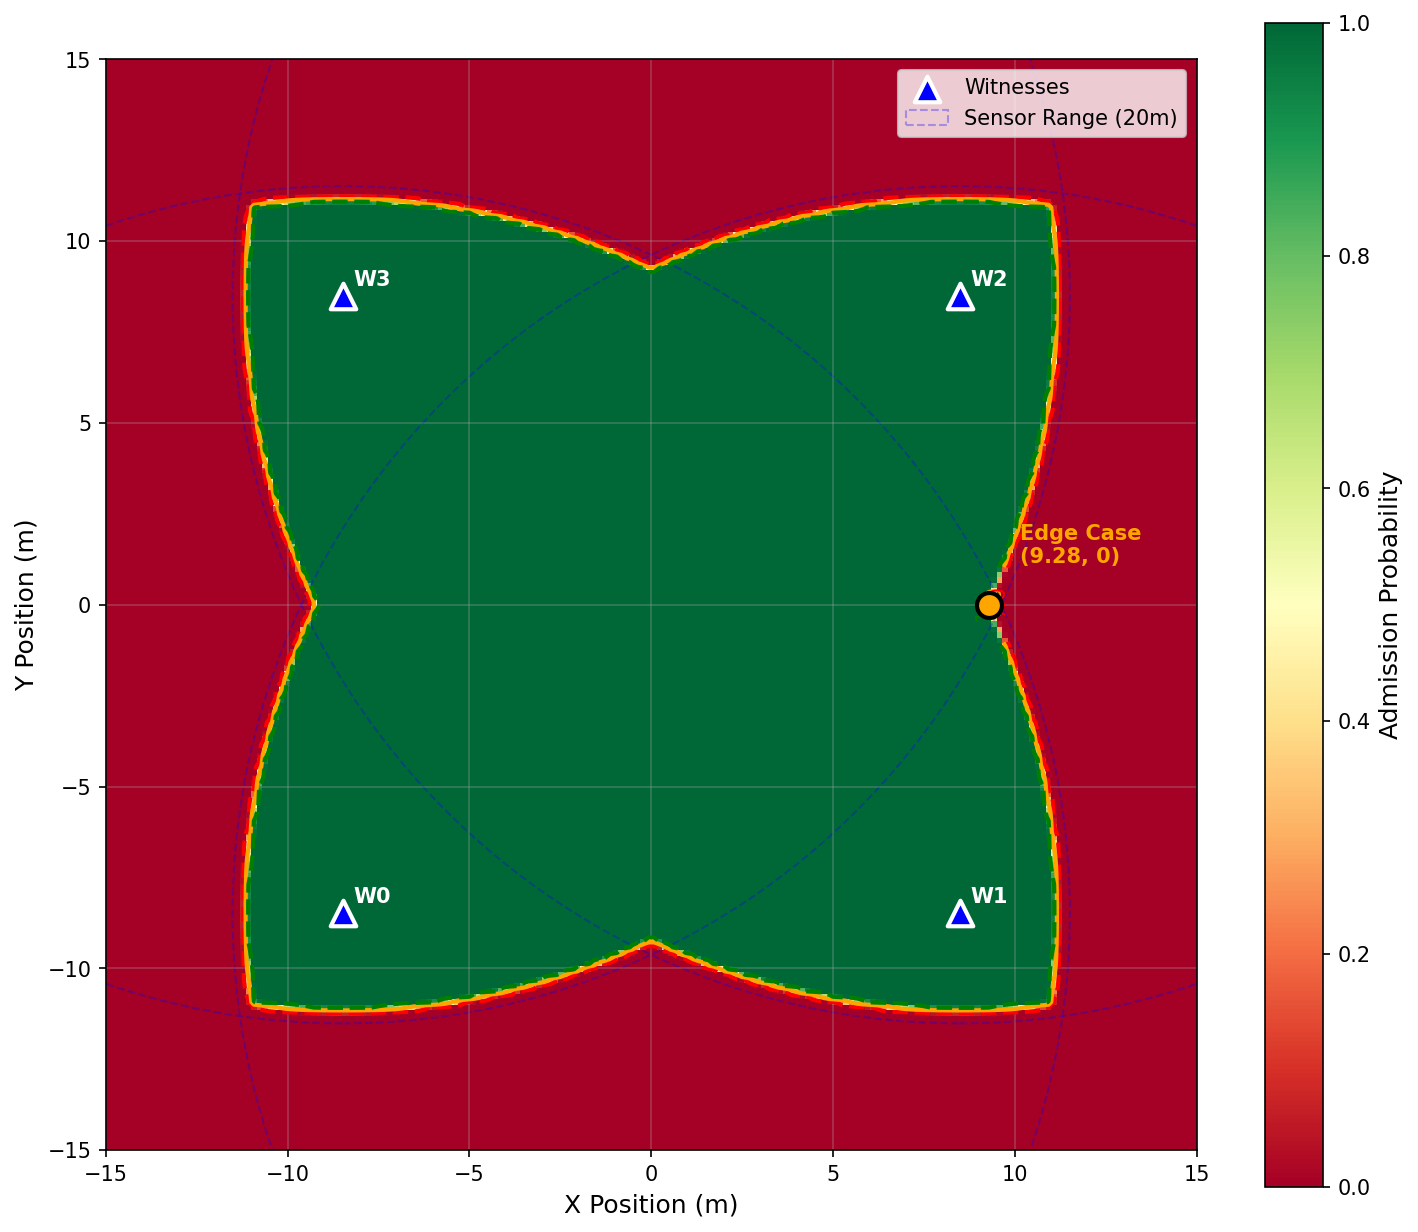
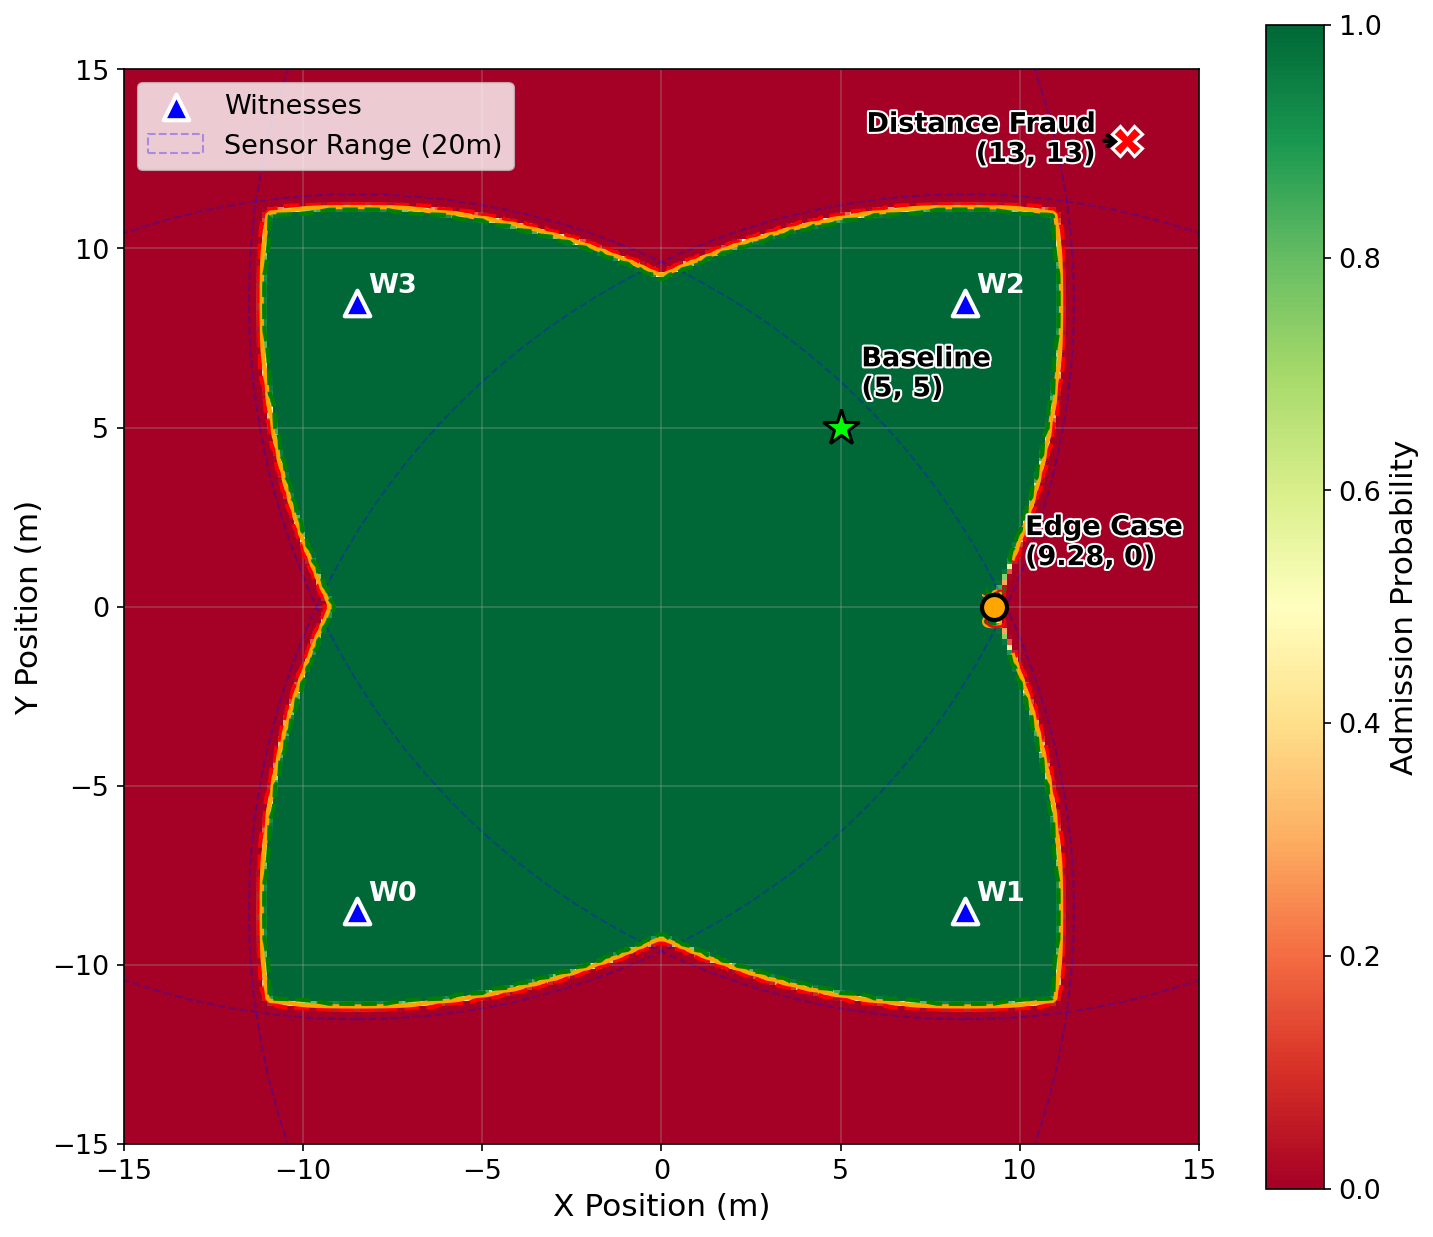
last commit

Changed region(s): [[0.031, 0.0, 0.9929, 0.987], [0.0, 0.401, 0.031, 0.586], [0.5585, 0.6786, 0.5896, 0.7094]]

diff --git a/probability_heatmap.py b/probability_heatmap.py
@@ -13,6 +13,7 @@ Admission requires k>=3 witnesses to measure distance <= 20m.
 
 import numpy as np
 import matplotlib.pyplot as plt
+import matplotlib.patheffects as pe
 from matplotlib.patches import Circle
 import math
 from itertools import combinations
@@ -121,7 +122,8 @@ def plot_heatmap(X, Y, prob_grid, witnesses, output_file: str = "probability_hea
     
     # Add colorbar
     cbar = plt.colorbar(im, ax=ax, shrink=0.8)
-    cbar.set_label('Admission Probability', fontsize=12)
+    cbar.set_label('Admission Probability', fontsize=15)
+    cbar.ax.tick_params(labelsize=13)
     
     # Plot witness positions
     ax.scatter(witnesses[:, 0], witnesses[:, 1], c='blue', s=150, marker='^', 
@@ -130,7 +132,7 @@ def plot_heatmap(X, Y, prob_grid, witnesses, output_file: str = "probability_hea
     # Label witnesses
     for i, (wx, wy) in enumerate(witnesses):
         ax.annotate(f'W{i}', (wx, wy), xytext=(5, 5), textcoords='offset points',
-                    fontsize=10, fontweight='bold', color='white')
+                    fontsize=13, fontweight='bold', color='white')
     
     # Draw 20m range circles around each witness (faintly)
     for i, (wx, wy) in enumerate(witnesses):
@@ -140,31 +142,50 @@ def plot_heatmap(X, Y, prob_grid, witnesses, output_file: str = "probability_hea
         ax.add_patch(circle)
     
     # Mark key positions
+    # Baseline position (honest prover inside zone)
+    ax.plot(5, 5, '*', color='lime', markersize=18, markeredgecolor='black', 
+            markeredgewidth=1.5, zorder=6)
+    ax.annotate('Baseline\n(5, 5)', (5, 5), xytext=(10, 15), 
+                textcoords='offset points', fontsize=13, fontweight='bold',
+                color='black', ha='left',
+                path_effects=[pe.withStroke(linewidth=2, foreground='white')])
+    
     # Edge Case position
     ax.plot(9.28, 0, 'o', color='orange', markersize=12, markeredgecolor='black', 
             markeredgewidth=2, zorder=6)
     ax.annotate('Edge Case\n(9.28, 0)', (9.28, 0), xytext=(15, 20), 
-                textcoords='offset points', fontsize=10, fontweight='bold',
-                color='orange', ha='left')
+                textcoords='offset points', fontsize=13, fontweight='bold',
+                color='black', ha='left',
+                path_effects=[pe.withStroke(linewidth=2, foreground='white')])
     
+    # Distance Fraud position (attacker at 30, 30 — outside plot)
+    # Show an indicator at the corner of the plot pointing toward (30,30)
+    ax.plot(13, 13, 'X', color='red', markersize=14, markeredgecolor='white', 
+            markeredgewidth=1.5, zorder=6)
+    ax.annotate('Distance Fraud\n(13, 13)', (13, 13), xytext=(-15, -10), 
+                textcoords='offset points', fontsize=13, fontweight='bold',
+                color='black', ha='right',
+                arrowprops=dict(arrowstyle='->', color='black', lw=2),
+                path_effects=[pe.withStroke(linewidth=2, foreground='white')])
     
     # Contour lines for 10%, 50%, 90% probability
     contour_levels = [0.1, 0.5, 0.9]
     CS = ax.contour(X, Y, prob_grid, levels=contour_levels, colors=['red', 'orange', 'green'],
                     linewidths=2, linestyles=['--', '-', '--'])
-    ax.clabel(CS, inline=True, fontsize=10, fmt='%.0f%%', 
+    ax.clabel(CS, inline=True, fontsize=13, fmt='%.0f%%', 
               manual=[(8, 0), (9, 0), (10, 0)])
     
     # Axis settings
     ax.set_xlim(-15, 15)
     ax.set_ylim(-15, 15)
-    ax.set_xlabel('X Position (m)', fontsize=12)
-    ax.set_ylabel('Y Position (m)', fontsize=12)
+    ax.set_xlabel('X Position (m)', fontsize=15)
+    ax.set_ylabel('Y Position (m)', fontsize=15)
+    ax.tick_params(axis='both', labelsize=13)
     # ax.set_title('PoL Admission Probability Heatmap\n(Analytical Model: k≥3/4 witnesses within 20m)', 
     #              fontsize=14, fontweight='bold')
     ax.set_aspect('equal')
     ax.grid(True, alpha=0.3)
-    ax.legend(loc='upper right')
+    ax.legend(loc='upper left', fontsize=13)
     
     plt.tight_layout()
     plt.savefig(output_file, dpi=150, bbox_inches='tight')

diff --git a/evaluation_section.tex b/evaluation_section.tex
@@ -1,7 +1,7 @@
 \section{Evaluation}
 \label{sec:evaluation}
 
-To empirically validate the security resilience and operational reliability of active adversarial attempts (such as distance fraud), we developed a discrete-event simulation framework using Python and SimPy. This approach allows us to strictly quantify the system's performance under stochastic environmental conditions and prove the protocol's capacity to serve as a robust trust anchor. This validation establishes that the witnessing zone architecture offers distinct security value over conventional localization methods, particularly for high-stakes applications like verifiable supply chain tracking.
+To systematically evaluate the security resilience and operational reliability of active adversarial attempts (such as distance fraud), as well as to evaluate specific admission policies such as proximity-based and visual verification policies, we developed a discrete-event simulation framework using Python and SimPy. This approach allows us to strictly quantify the system's performance under stochastic environmental conditions and prove the protocol's capacity to serve as a robust trust anchor. This validation establishes that the witnessing zone architecture offers distinct security value over conventional localization methods, particularly for high-stakes applications like verifiable supply chain tracking.
 
 \subsection{Simulation Setup}
 
@@ -78,3 +78,7 @@ In addition to RF constraints, we validated the \textit{VisualVerificationPolicy
     \item \textbf{Valid Context:} When the required "Red Car" object was present, the system maintained a high admission rate (80\%).
     \item \textbf{Invalid Context:} When the object was removed, admission dropped to \textbf{0\%}, proving that the witnessing consensus correctly enforces environmental prerequisites.
 \end{itemize}
+
+\subsection{Conclusion}
+
+The simulation results demonstrate that our witnessing zone protocol successfully achieves its design objectives. First, the system exhibits robust security resilience, rejecting 100\% of distance fraud attempts from adversaries outside the zone. Second, the protocol supports flexible admission policies, with both proximity-based and visual verification policies correctly enforcing their respective constraints. Third, the probabilistic behavior at the zone boundary validates that the system accurately models real-world sensor noise, providing predictable admission gradients rather than brittle binary decisions. These results confirm that the proposed architecture provides a reliable and extensible foundation for location-based attestation in security-critical applications.
